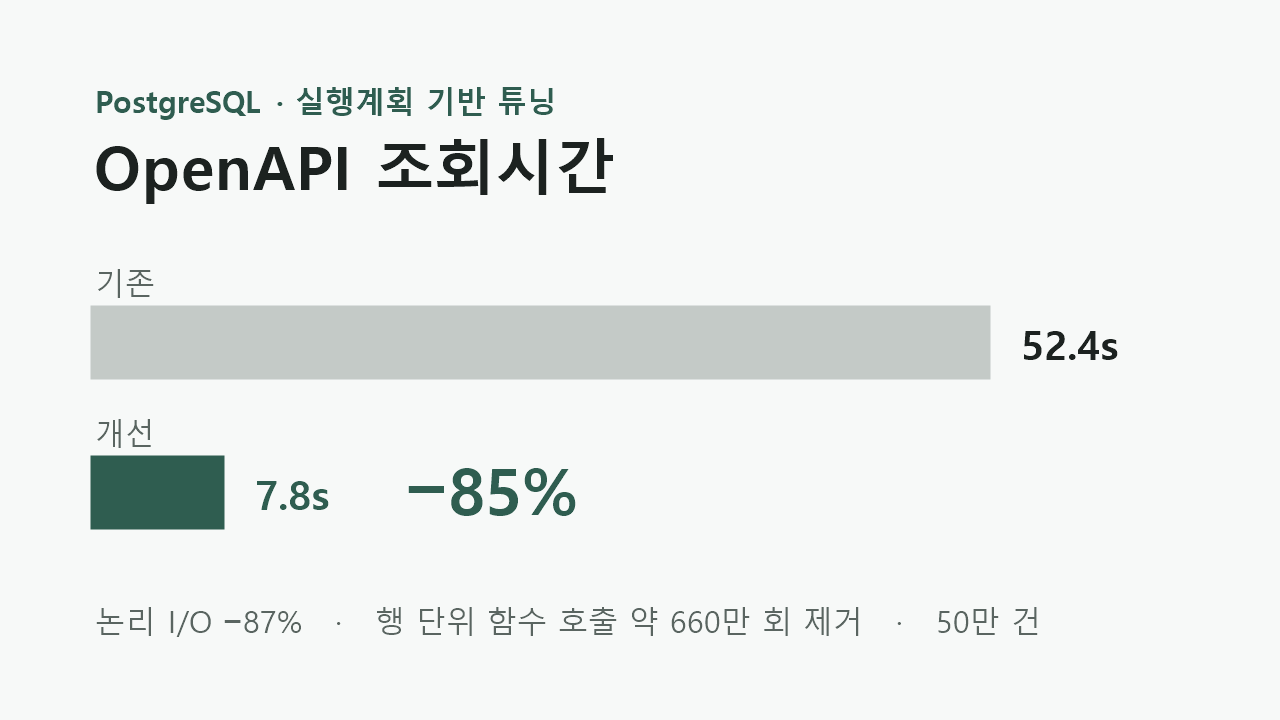
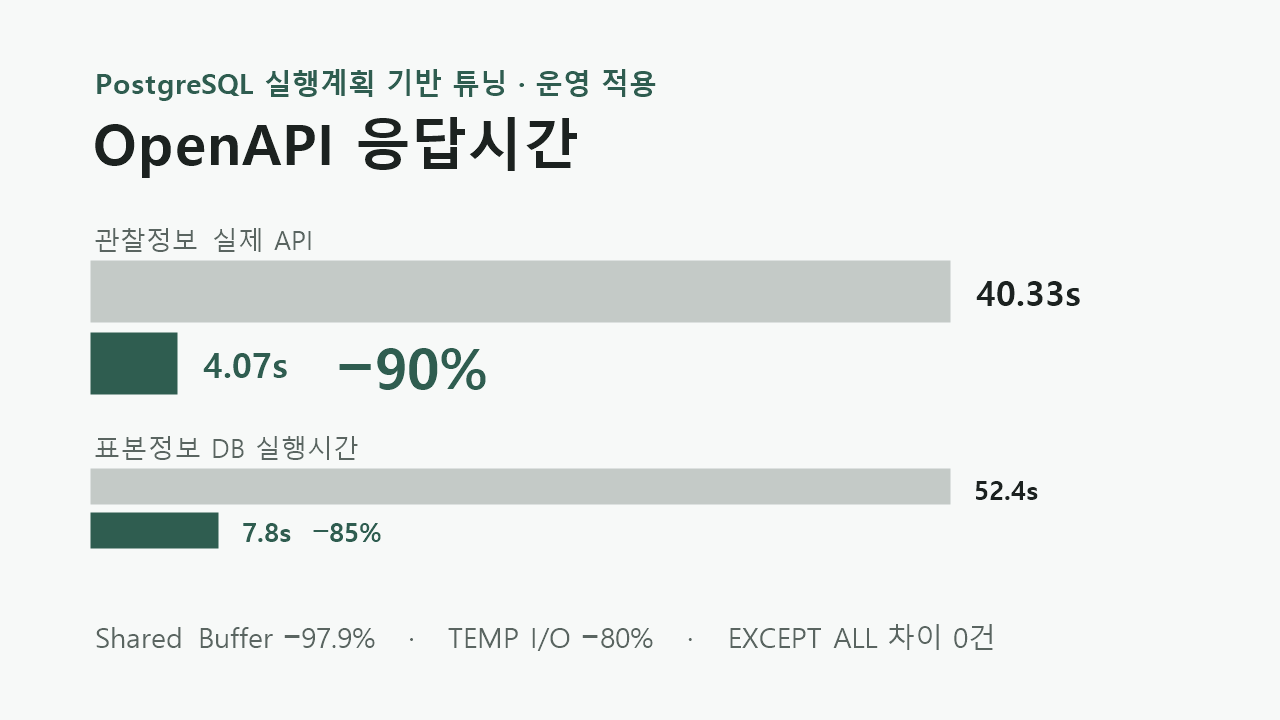
'open_api_성과추가;

diff --git a/index.html b/index.html
@@ -4,7 +4,7 @@
   <meta charset="utf-8">
   <meta name="viewport" content="width=device-width, initial-scale=1">
   <title>하진희 | 백엔드 개발자 포트폴리오</title>
-  <meta name="description" content="운영 경험을 개발 역량으로 확장해 온 백엔드 개발자 하진희의 이력서와 프로젝트 포트폴리오 — PostgreSQL 실행계획 분석으로 OpenAPI 조회시간 52.4초 → 7.8초.">
+  <meta name="description" content="운영 경험을 개발 역량으로 확장해 온 백엔드 개발자 하진희의 이력서와 프로젝트 포트폴리오 — PostgreSQL 실행계획 분석으로 OpenAPI 응답 40.33초 → 4.07초.">
   <meta name="theme-color" content="#2F5D50">
   <link rel="canonical" href="https://jin123346.github.io/">
 
@@ -13,7 +13,7 @@
   <meta property="og:locale" content="ko_KR">
   <meta property="og:url" content="https://jin123346.github.io/">
   <meta property="og:title" content="하진희 | 백엔드 개발자 포트폴리오">
-  <meta property="og:description" content="운영 경험을 개발 역량으로 확장해 온 백엔드 개발자 하진희의 이력서와 프로젝트 포트폴리오 — PostgreSQL 실행계획 분석으로 OpenAPI 조회시간 52.4초 → 7.8초.">
+  <meta property="og:description" content="운영 경험을 개발 역량으로 확장해 온 백엔드 개발자 하진희의 이력서와 프로젝트 포트폴리오 — PostgreSQL 실행계획 분석으로 OpenAPI 응답 40.33초 → 4.07초.">
   <meta property="og:image" content="https://jin123346.github.io/assets/images/og-image.png">
   <meta property="og:image:width" content="1200">
   <meta property="og:image:height" content="630">

diff --git a/README.md b/README.md
@@ -34,9 +34,9 @@
 
 <div align="center">
 
-| ⚡ **52.4s → 7.8s** | 📉 **−87%** | 🧬 **1,200+** |
+| ⚡ **40.33s → 4.07s** | 📉 **−97.9%** | 🧬 **1,200+** |
 | :---: | :---: | :---: |
-| OpenAPI 조회시간 단축<br><sub>PostgreSQL 실행계획 분석 · 약 85% 단축</sub> | Shared Buffer 접근량<br><sub>행 단위 함수 호출 약 660만 회 제거</sub> | BioFlow 실사용 입력 건수<br><sub>1인 개발 데이터 입력 자동화 도구</sub> |
+| OpenAPI 실제 응답시간<br><sub>PostgreSQL 실행계획 분석 · 운영 적용 · 약 90% 단축</sub> | Shared Buffer 접근량<br><sub>행 단위 함수 호출을 집합 처리로 전환</sub> | BioFlow 실사용 입력 건수<br><sub>1인 개발 데이터 입력 자동화 도구</sub> |
 
 </div>
 
@@ -49,7 +49,7 @@
 
 | | 프로젝트 | 한 줄 요약 |
 | :---: | --- | --- |
-| 🏛 실무 | [**OpenAPI 조회 쿼리 튜닝**](https://jin123346.github.io/project.html?id=openapi-tuning) | 행 단위 함수 호출을 집합 처리로 전환 — 52.4s → 7.8s |
+| 🏛 실무 | [**표본·관찰정보 OpenAPI 조회 성능 개선**](https://jin123346.github.io/project.html?id=openapi-tuning) | 행 단위 함수 호출을 집합 처리로 전환 — API 응답 40.33s → 4.07s, 운영 적용 |
 | 🏛 실무 | [**Error Page 적용 및 로그인 세션 장애 해결**](https://jin123346.github.io/project.html?id=ipt-auth) | Apache 리버스 프록시·Tomcat 오류 처리 구조 분석 |
 | 🏛 실무 | [**BioFlow**](https://jin123346.github.io/project.html?id=bioflow) | 생물 관찰·표본 데이터 입력 자동화 데스크톱 앱 |
 | 🏛 실무 | [**AI 생물 이미지 자동 동정 PoC**](https://jin123346.github.io/project.html?id=ai-species-id) | YOLOv8 객체 탐지 — mAP@0.5 96.4% |
